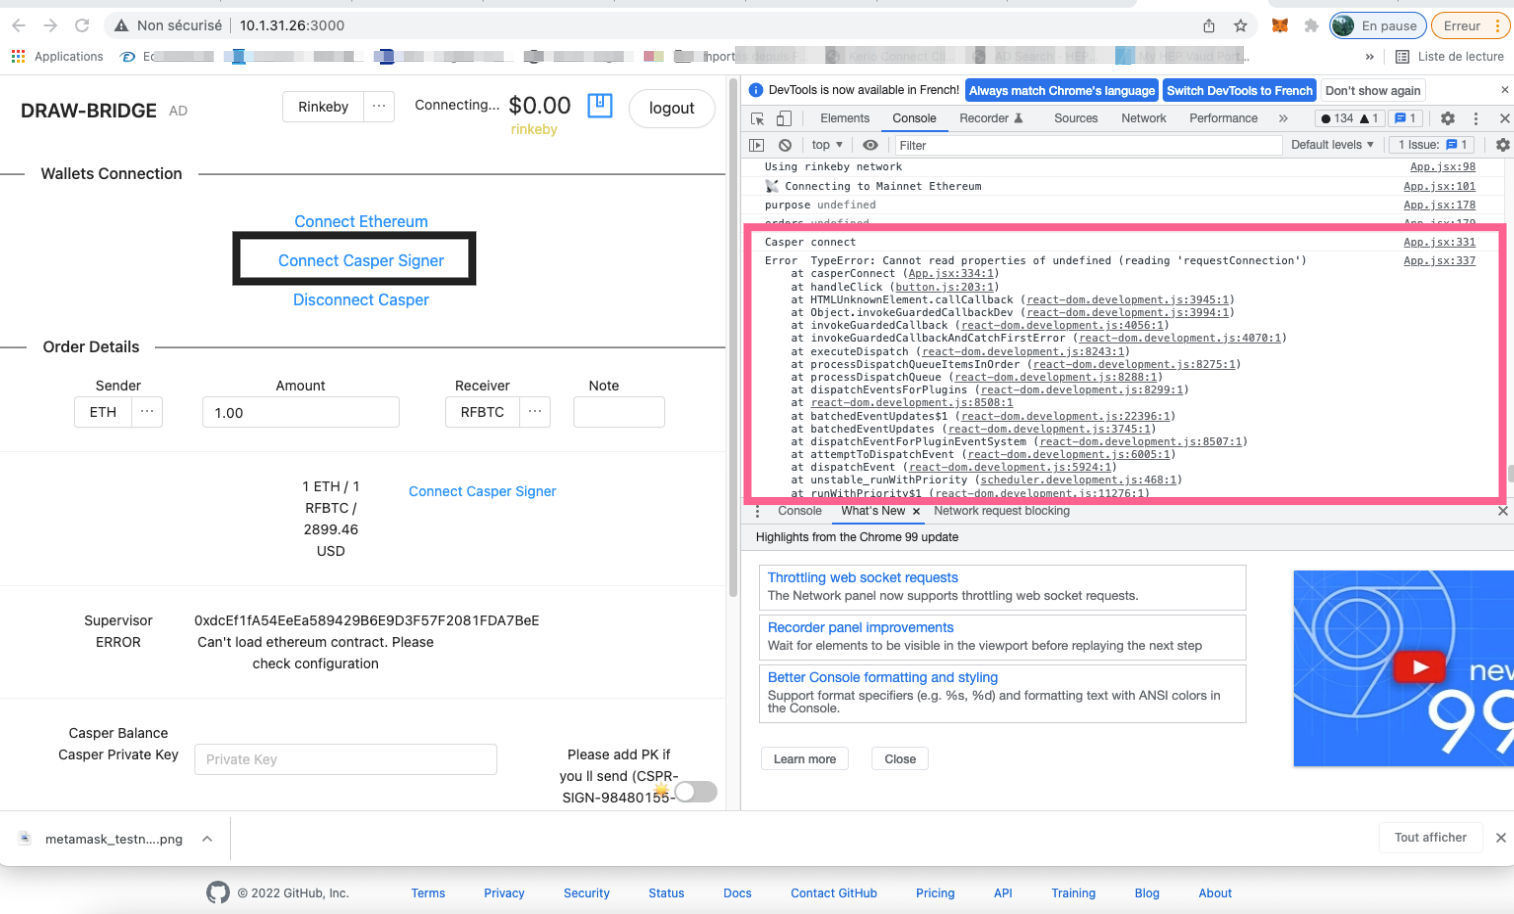
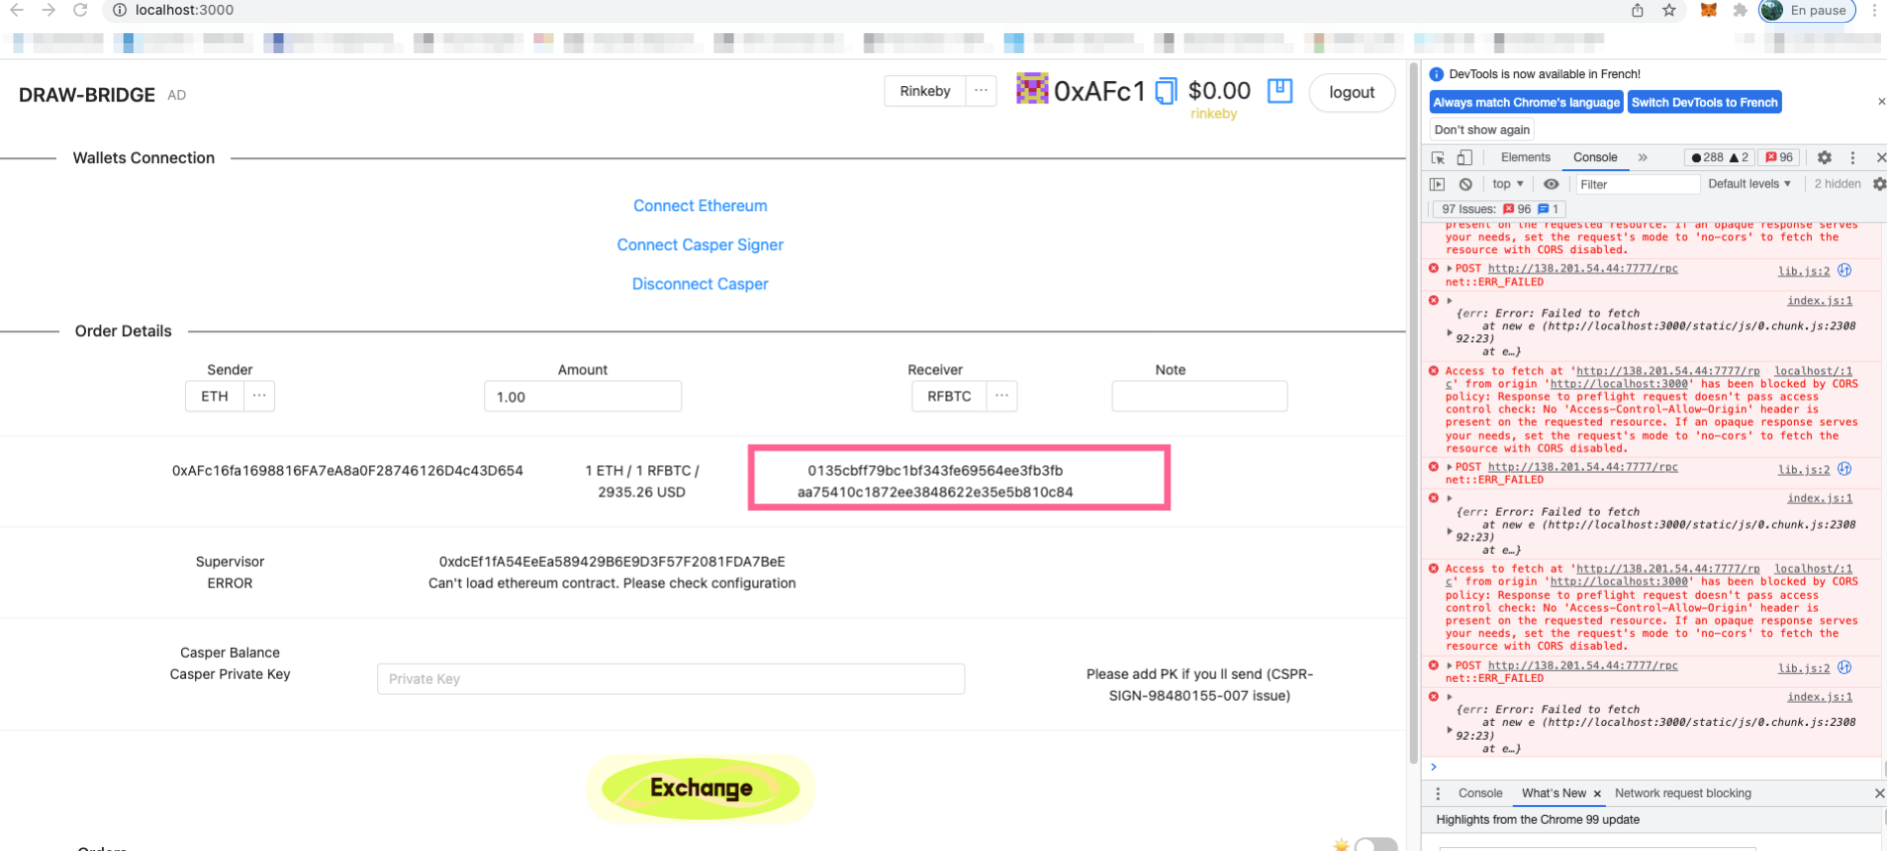
337-1 review

diff --git a/Reviews/337 -  Royal web wallet and casper connector/1- Development/README.md b/Reviews/337 -  Royal web wallet and casper connector/1- Development/README.md
@@ -200,26 +200,61 @@ The reviewer tried to run the test scenario given in the README file :
 
 1- Connect Metamask
 
-The reviewer was able to connect to the testnet ETH network (Rinkeby) via Metamask. However, the information on the available balance is not correct.
+The reviewer was able to connect to the testnet ETH network (Rinkeby) via Metamask.
 
-![metamask testnet](assets/metamask_testnet.png "metamask")
+* Set the ETH network to Rinkeby
+![metamask testnet](assets/metamask_testnet_1.png "metamask_1")
 
+* Connect wallet using metamask
+![metamask testnet](assets/metamask_testnet_1.png "metamask_2")
+
+The informations about the current connected test ETH wallet and on the available balance seem to be wrong.
+The reviewer thinks that connecting to ETH networks via metamask  does not work properly on the application.
+But he cannot confirm that since there is no errors indicating it on the web console.
+The page shows an error message (Can't load ethereum contract. Please check configuration).This error is most likely due to the missing variables we could not set above.
+
+**The OP is strongly recommended to give a more detailled step-by-step guide on how to use the application**
 
 2- Connect Casper Signer
 
-The reviewer was unable to connect to the Casper testnet via CasperSigner.
-An error is thrown in the console (Chrome) when the link 'Connect Casper Signer' is hit.
+The reviewer was able to connect to the Casper testnet via CasperSigner. The public key of Caper signer wallet is shown on the page. 
+But an error keeps  throwing on the web console (Chrome) .
+
+```console
+Access to fetch at 'http://138.201.54.44:7777/rpc' from origin 'http://localhost:3000' 
+has been blocked by CORS policy: Response to preflight request doesn't pass access control 
+check: No 'Access-Control-Allow-Origin' header is present on the requested resource. 
+If an opaque response serves your needs, set the request's mode to 'no-cors' to fetch the 
+resource with CORS disabled.
+```
+
 
 ![Casper testnet](assets/casper_signer.png "metamask")
 
-The reviewer stopped at this point because the following test cases of the scenario test depend on it.
+3. Grab ETH Faucet (for testnet) 
+
+The reviewer could not use his own testnet ETH wallet  on the Rinkeby network.
+  
+4. Grab CSPR Faucet (for testent)
+   
+The reviewer used Casper Testnet Faucet to claim 1000 test cspr
+
+5. Enter amount = 1
+
+6. Push Exchange
+
+Hitting the Exchange button shown an error : **ethContractError**
+
 
 
 ## Overall Impression of usage testing
 
 The reviewer was able to build and run the application. 
 **However, the build instructions are not very clear and some important informations are missing, especially on the use of configuration variables and how to define them in the project.**
-**It is also not possible to run the whole test scenario provided in the README file. Connecting to the Casper testnet via the Casper signer plugin fails and throws an error.**
+**It is also not possible to successfully run the whole test scenario provided in the README file.
+The reviewer managed to connect his metamask and  casper signer  wallets, but the ETH address displayed and the balance of the ETH wallet do not seem to match.
+Also , the web console shows continuous errors after connecting to the casper signer wallet**
+
 
 
 Requirement | Finding
